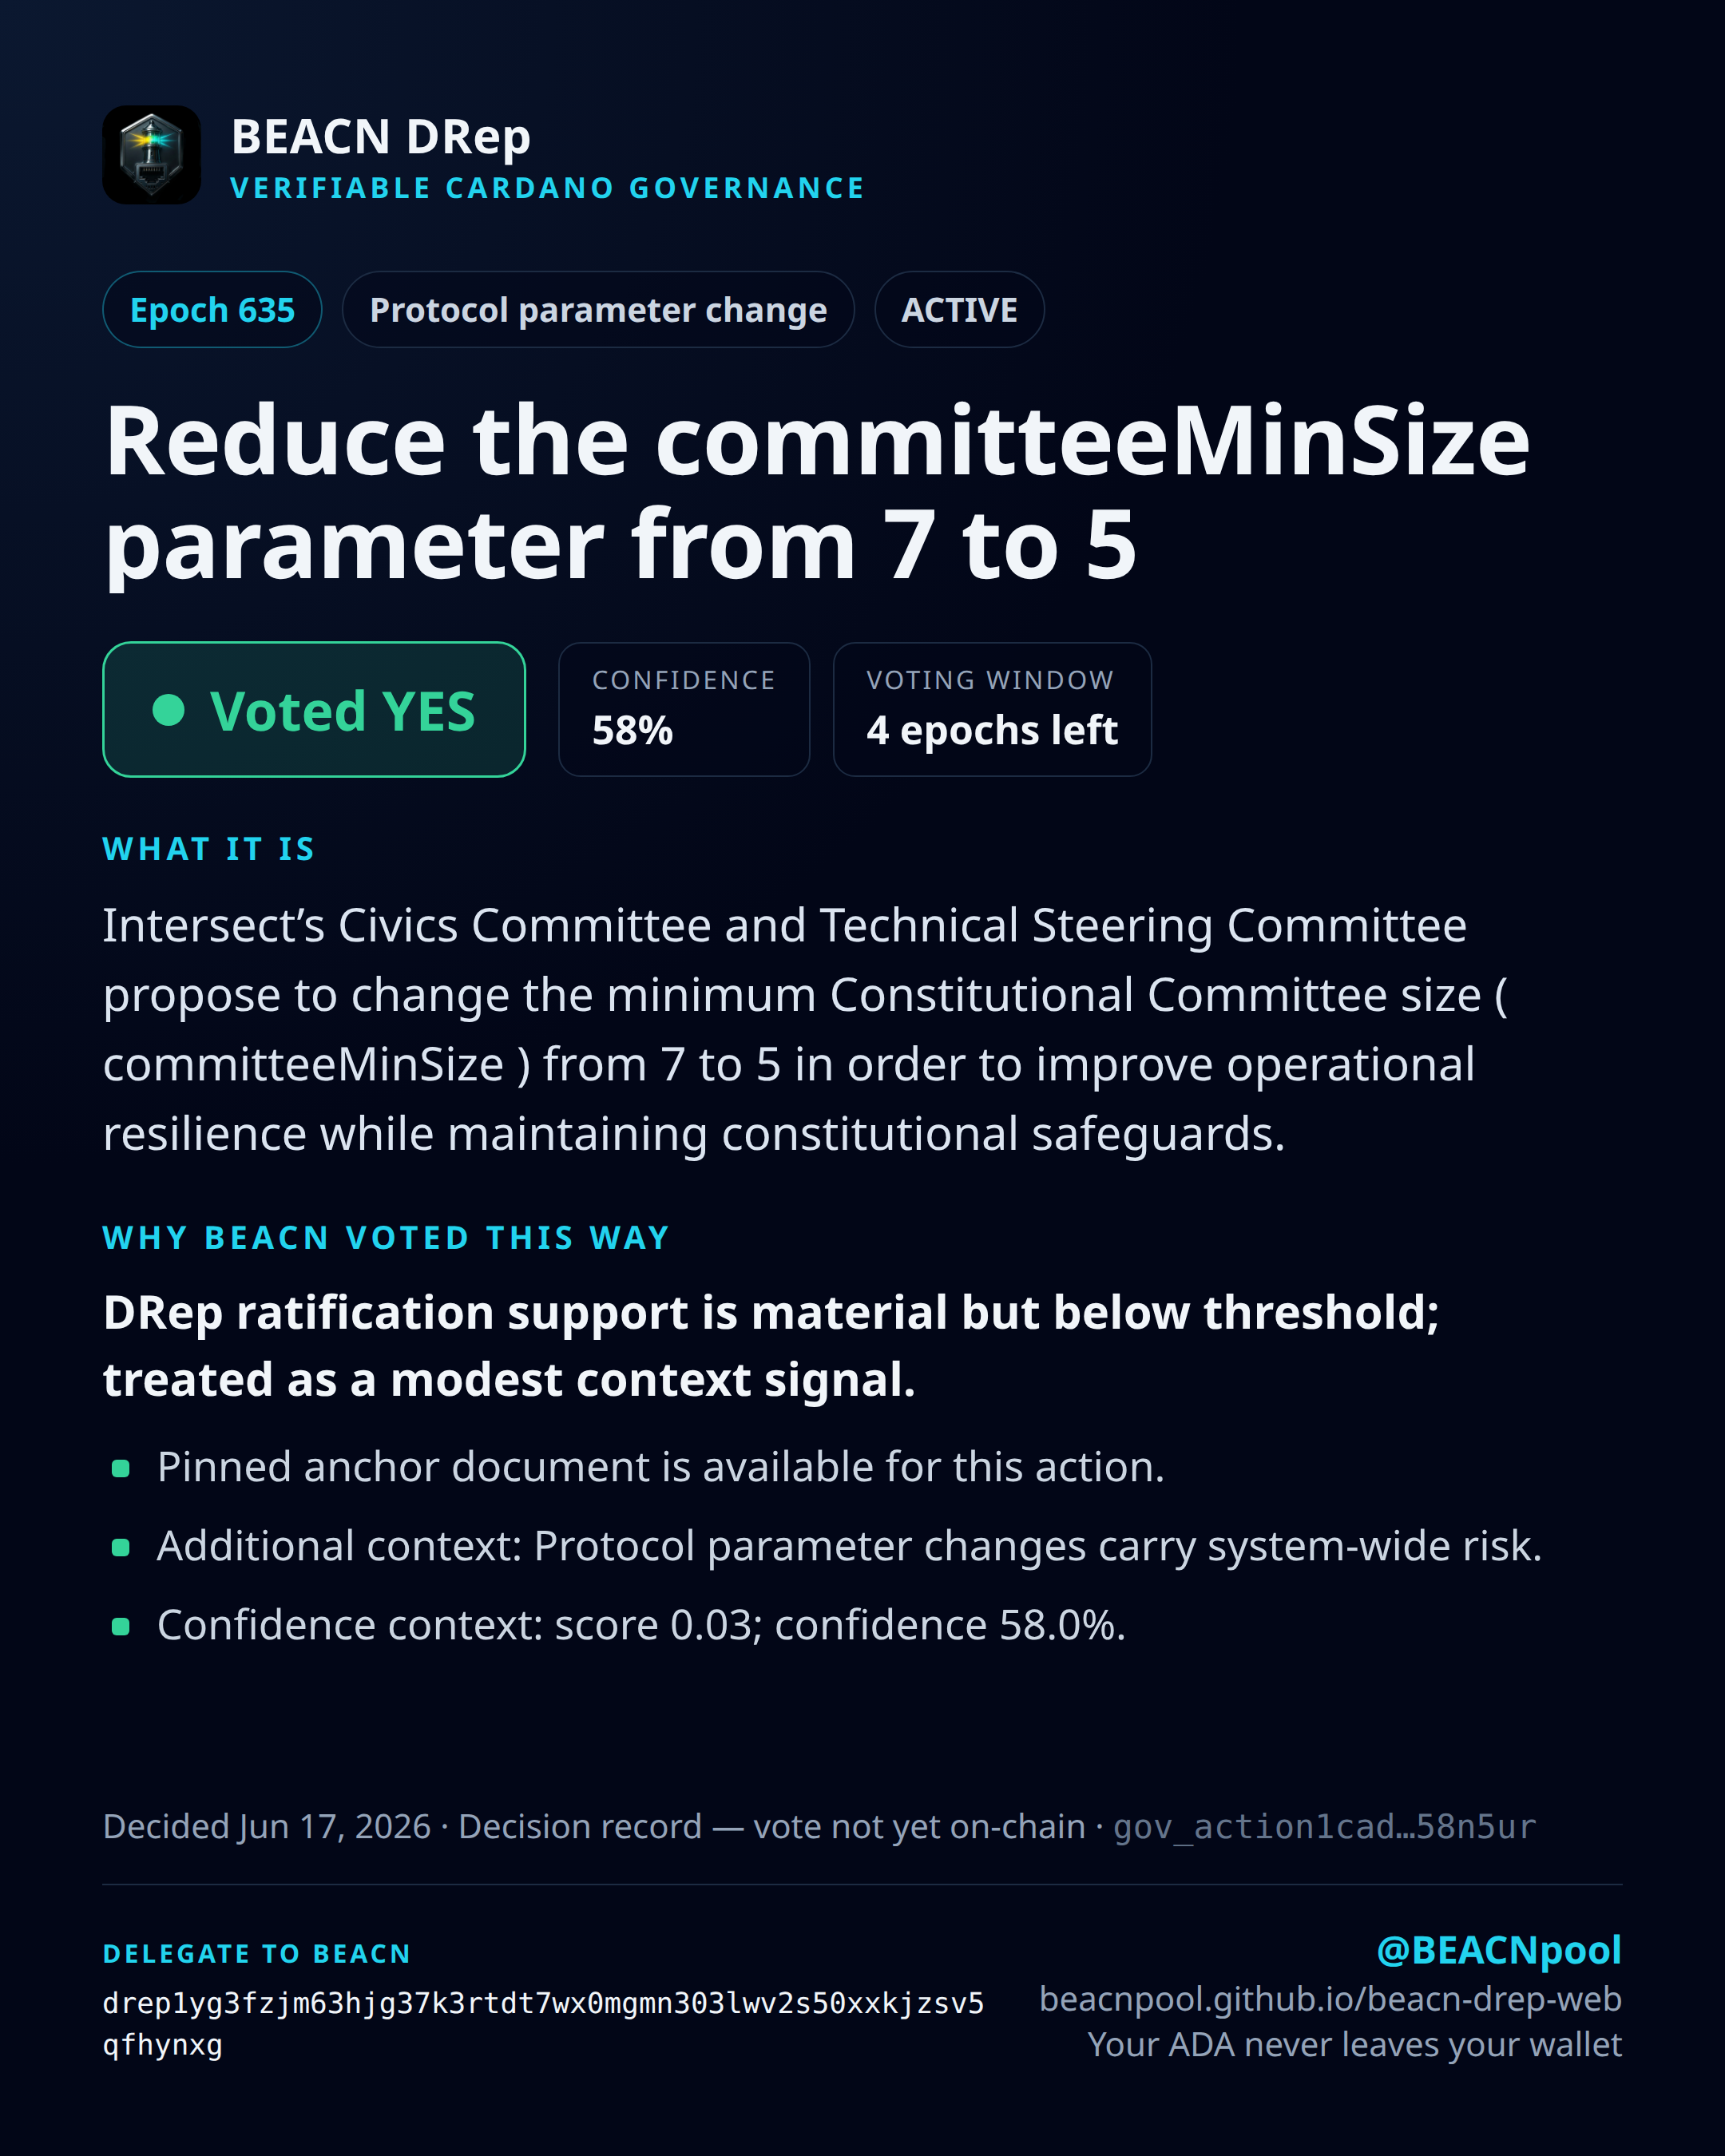
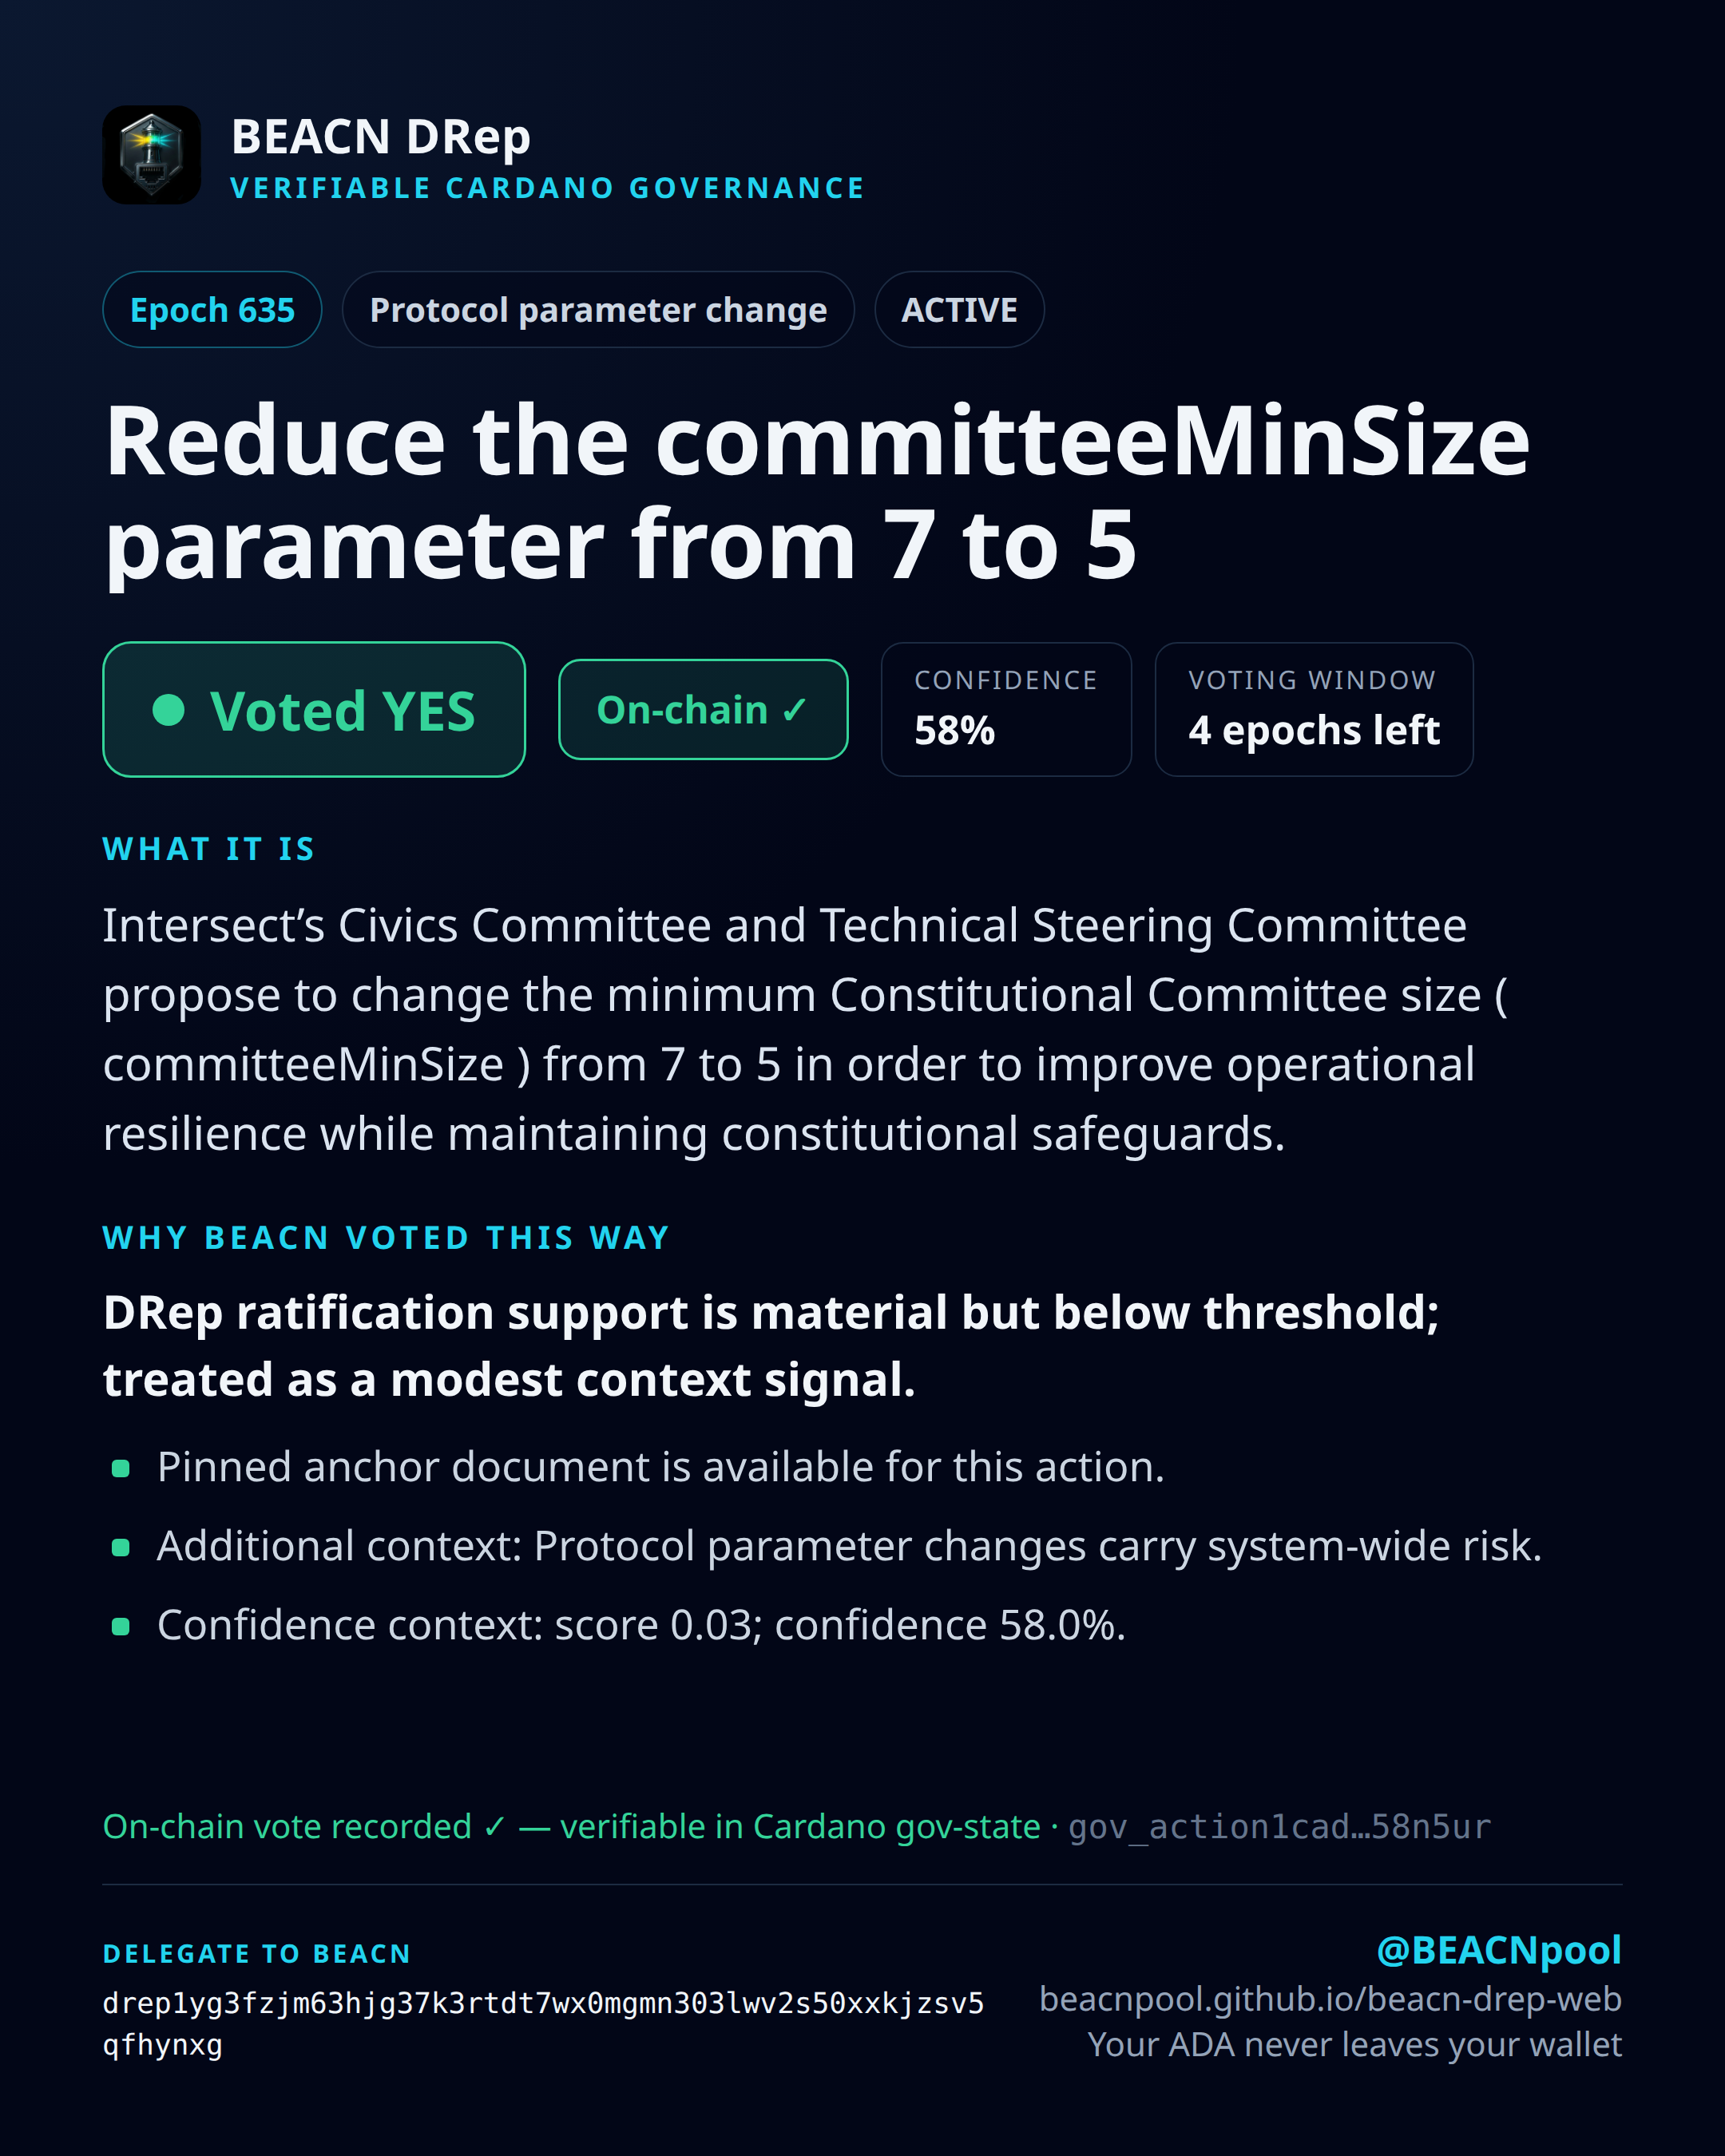
fix(web): surface on-chain vote (our_vote) as authoritative status
The site and share cards read the engine decision, so on-chain votes showed as
'not yet on-chain' — and where the engine drifted to a stale-data ABSTAIN
fallback after a directional vote was already cast, the public record
contradicted the chain.

Now status.json our_vote (read from relay gov-state) is authoritative wherever
present: deck/proposal/detail verdicts and share cards show the on-chain vote
with an 'On-chain ✓' marker; the detail page and cards flag any drift between
the chain and the current engine rationale. Verdicts unvoted on-chain still
fall back to the engine record. No mainnet writes; display only.

Changed region(s): [[0.062, 0.84, 0.8685, 0.8711], [0.3102, 0.28, 0.6514, 0.3733], [0.6824, 0.3111, 0.8375, 0.3733]]

diff --git a/app.assessment.js b/app.assessment.js
@@ -97,7 +97,8 @@ const recordFor = item => {
   return {
     ...item,
     cip129_action_id: item.action_id,
-    decision: verdictKey(item.decision || live.recommendation || live.our_vote),
+    decision: verdictKey(live.our_vote || item.decision || live.recommendation),
+    onchain: !!live.our_vote,
     transaction_hash: live.transaction_hash || null,
     expires_after_epoch: live.expires_after_epoch,
     proposed_in_epoch: live.proposed_in_epoch,
@@ -115,7 +116,8 @@ const currentRecords = () => {
       ...live,
       action_id: live.cip129_action_id,
       cip129_action_id: live.cip129_action_id,
-      decision: verdictKey(live.recommendation || live.our_vote || record.decision),
+      decision: verdictKey(live.our_vote || live.recommendation || record.decision),
+      onchain: !!live.our_vote,
       summary: summaryFor(live.cip129_action_id)
     };
   });
@@ -191,7 +193,7 @@ function proposalCard(item) {
       <h3 class="proposal-title">${esc(item.title || "Governance action")}</h3>
       <span class="type-pill">${esc(item.type || "Unknown type")}</span>
     </div>
-    <span class="verdict ${v.cls}">${esc(v.label)}</span>
+    <span class="verdict ${v.cls}">${esc(v.label)}</span>${item.onchain ? '<span class="onchain-tag">On-chain ✓</span>' : ""}
     <p class="summary-line">${esc(firstSentence(item.summary) || "Open the decision record to inspect the published rationale.")}</p>
     <span class="reason-link">Full reasoning <span aria-hidden="true">→</span></span>
     <div class="proposal-meta">
@@ -233,7 +235,7 @@ function deckCard(item, index) {
     <div class="deck-verdict ${v.cls}">
       <span class="deck-verdict-ring" aria-hidden="true"></span>
       <strong>${esc(v.label)}</strong>
-      <small>BEACN DRep verdict</small>
+      <small>${item.onchain ? "On-chain vote ✓" : "BEACN DRep verdict"}</small>
     </div>
     <h3 class="deck-title">${esc(item.title || "Governance action")}</h3>
     <p class="deck-summary">${esc(summary)}</p>
@@ -648,7 +650,11 @@ async function renderDetail(id) {
   const reproducibility = detail.reproducibility || {};
   const decision = detail.decision || {};
   const scoring = detail.scoring || {};
-  const verdict = verdictMeta(decision.vote || proof.vote || listRecord.decision);
+  const onchainVote = live.our_vote || "";
+  const onchainKey = onchainVote ? verdictKey(onchainVote) : "";
+  const engineKey = verdictKey(decision.vote || proof.vote || listRecord.decision);
+  const drift = onchainKey && onchainKey !== engineKey;
+  const verdict = verdictMeta(onchainVote || decision.vote || proof.vote || listRecord.decision);
   const statement = summaryFor(id) || rationale.summary || "No plain-language statement has been published for this action.";
   const amount = extractedAmount(detail);
   const snapshot = localPath(evidence.download_path || listRecord.proposal_path);
@@ -663,7 +669,7 @@ async function renderDetail(id) {
     <article class="card detail-hero">
       <div class="detail-meta"><span class="status-pill">${esc(detail.status || listRecord.status || "recorded")}</span><span class="type-pill">${esc(detail.type || listRecord.type || "Unknown type")}</span></div>
       <h1>${esc(detail.title || listRecord.title || "Governance action")}</h1>
-      <span class="verdict ${verdict.cls}">${esc(verdict.label)}</span>
+      <span class="verdict ${verdict.cls}">${esc(verdict.label)}</span>${onchainVote ? '<span class="onchain-tag">On-chain ✓</span>' : ""}
       <div class="detail-links"><a href="${cardanoscan.action(id)}" target="_blank" rel="noopener">Action on Cardanoscan ↗</a>${decision.transaction_hash ? `<a href="${cardanoscan.tx(decision.transaction_hash)}" target="_blank" rel="noopener">Vote transaction ↗</a>` : ""}</div>
     </article>
 
@@ -686,7 +692,9 @@ async function renderDetail(id) {
 
     <article class="card detail-section">
       <h2><span>02</span>BEACN's verdict</h2>
+      ${onchainVote ? `<p class="onchain-note"><strong>On-chain vote: ${esc(verdictMeta(onchainKey).label)} ✓</strong> — recorded in Cardano governance state, authoritative.</p>` : ""}
       <div class="callout">${esc(statement)}</div>
+      ${drift ? `<p class="timestamp drift-note" style="margin-top:10px">Note: the on-chain vote (${esc(verdictMeta(onchainKey).label)}) differs from the current engine rationale (${esc(verdictMeta(engineKey).label)}), a conservative fallback generated on stale data. The chain is authoritative; the rationale is being reconciled.</p>` : ""}
       ${state.statements.get(id)?.model ? `<p class="timestamp" style="margin-top:10px">Plain-language layer: ${esc(state.statements.get(id).model)}. The deterministic record below is binding.</p>` : ""}
     </article>
 
@@ -710,7 +718,8 @@ async function renderDetail(id) {
       <h2><span>${assessment?.sections?.length ? "05" : "04"}</span>Proof and reproducibility</h2>
       <p class="subtitle">These receipts bind the public inputs and rule versions to the published result.</p>
       <div class="proof-list">
-        ${proofRow("Vote", decision.vote || proof.vote)}
+        ${proofRow("On-chain vote", onchainVote || "not yet on-chain")}
+        ${proofRow("Engine record", decision.vote || proof.vote)}
         ${proofRow("Submitted", decision.submitted_at)}
         ${proofRow("Transaction", decision.transaction_hash, decision.transaction_hash ? cardanoscan.tx(decision.transaction_hash) : "")}
         ${proofRow("Input hash", proof.input_hash)}

diff --git a/styles.assessment.css b/styles.assessment.css
@@ -262,6 +262,9 @@ h3 { margin-bottom: 7px; font-size: 1rem; }
 .verdict { display: inline-flex; align-items: center; gap: 7px; margin-top: 12px; font-size: .85rem; font-weight: 800; }
 .verdict::before { width: 8px; height: 8px; border-radius: 50%; background: currentColor; box-shadow: 0 0 9px currentColor; content: ""; }
 .v-yes { color: var(--green); } .v-no { color: var(--red); } .v-abstain { color: var(--slate); } .v-info { color: var(--amber); }
+.onchain-tag { display: inline-flex; align-items: center; margin-top: 12px; margin-left: 8px; padding: 3px 9px; border: 1px solid var(--green); border-radius: 999px; background: rgba(52, 211, 153, .12); color: var(--green); font-size: .68rem; font-weight: 800; letter-spacing: .03em; }
+.onchain-note { margin: 4px 0 12px; color: var(--green); font-size: .84rem; line-height: 1.5; }
+.drift-note { color: var(--amber) !important; }
 .summary-line { margin: 11px 0 0; color: #cbd5e1; font-size: .86rem; line-height: 1.55; }
 .reason-link { display: inline-flex; align-items: center; gap: 5px; margin-top: 11px; color: var(--cyan); font-size: .8rem; font-weight: 750; }
 .proposal-meta { display: flex; flex-wrap: wrap; gap: 5px 12px; margin-top: 12px; color: var(--dim); font-family: var(--mono); font-size: .68rem; }

diff --git a/scripts/build_share_card.py b/scripts/build_share_card.py
@@ -49,6 +49,9 @@ VERDICTS = {
     "PENDING": ("Pending", "#a8b2c1", "rgba(168,178,193,.14)"),
 }
 
+SHORT = {"YES": "Yes", "NO": "No", "ABSTAIN": "Abstain",
+         "NEEDS_MORE_INFO": "Needs more info", "PENDING": "Pending"}
+
 TYPE_LABELS = {
     "TreasuryWithdrawals": "Treasury withdrawal",
     "ParameterChange": "Protocol parameter change",
@@ -68,7 +71,7 @@ def verdict_key(value):
         return "ABSTAIN"
     if "YES" in v:
         return "YES"
-    if v == "NO" or v.startswith("NO_") or "VOTE_NO" in v:
+    if "NO" in v:  # VOTENO, NO, NO_CONFIDENCE...
         return "NO"
     return v if v in VERDICTS else "PENDING"
 
@@ -164,15 +167,23 @@ def build_model(action_id, status, statements):
     live = next((a for a in (status or {}).get("actions", [])
                  if a.get("cip129_action_id") == action_id), {})
 
-    vkey = verdict_key(decision.get("vote") or proof.get("vote")
-                       or live.get("recommendation") or live.get("our_vote"))
+    # On-chain truth (status.json our_vote, read from gov-state) is authoritative
+    # wherever it exists; the engine recommendation is only a fallback for actions
+    # not yet voted. Drift = the chain vote differs from the current engine output.
+    engine_vkey = verdict_key(decision.get("vote") or proof.get("vote") or live.get("recommendation"))
+    onchain_raw = live.get("our_vote")
+    onchain = bool(onchain_raw)
+    vkey = verdict_key(onchain_raw) if onchain else engine_vkey
+    drift = onchain and vkey != engine_vkey
     vlabel, vcolor, vbg = VERDICTS[vkey]
 
-    # What it is: prefer the anchor abstract, then motivation, then statement.
-    what = clean_md(body.get("abstract") or body.get("motivation"), 300)
+    # What it is: describe the PROPOSAL from its own anchor, never BEACN's stance
+    # (a verdict-flavored fallback would contradict the verdict badge on drift).
+    what = clean_md(body.get("abstract") or body.get("motivation") or body.get("rationale"), 300)
     if not what:
-        st = statements.get(action_id, {})
-        what = clean_md(st.get("statement") or rationale.get("summary"), 300)
+        tl = TYPE_LABELS.get(detail.get("type"), detail.get("type") or "governance")
+        what = (f"An on-chain {tl.lower()} governance action. The full proposal text was not "
+                f"included in the published anchor snapshot — open the record to verify the source.")
 
     # Why: a headline reason plus up to three concrete points.
     headline = clean_md(rationale.get("summary_raw"), 180)
@@ -193,6 +204,16 @@ def build_model(action_id, status, statements):
         why_label = "Why BEACN voted this way"
     points = [p for p in points if p][:3]
 
+    # Drift: the on-chain vote differs from the current engine rationale. Trust the
+    # chain for the verdict, but say plainly that the published rationale is being
+    # reconciled rather than show abstain-flavoured reasons under a NO badge.
+    if drift:
+        why_label = "Note on this vote"
+        headline = (f"BEACN's vote is recorded on-chain as {SHORT[vkey]}. The published "
+                    f"deterministic rationale currently reads {SHORT[engine_vkey]} — a conservative "
+                    f"fallback generated on stale data — and is being reconciled.")
+        points = []
+
     epoch = live.get("proposed_in_epoch") or current_epoch()
     short_id = action_id if len(action_id) <= 26 else f"{action_id[:14]}…{action_id[-6:]}"
     type_label = TYPE_LABELS.get(detail.get("type"), detail.get("type") or "Governance action")
@@ -205,23 +226,25 @@ def build_model(action_id, status, statements):
     stats = []
     if amount:
         stats.append(("Requested", f"{amount} ADA"))
-    if conf_pct:
+    if conf_pct and not drift:
         stats.append(("Confidence", conf_pct))
     if window:
         stats.append(("Voting window", window))
 
-    tx = decision.get("transaction_hash")
-    decided = fmt_date(decision.get("published_at") or decision.get("submitted_at"))
-    proof_line = ("On-chain vote recorded ✓" if tx else "Decision record — vote not yet on-chain")
-    if decided:
-        proof_line = f"Decided {decided} · {proof_line}"
+    if onchain:
+        proof_line = "On-chain vote recorded ✓ — verifiable in Cardano gov-state"
+    else:
+        proof_line = "Decision record — vote not yet on-chain"
+        decided = fmt_date(decision.get("published_at") or decision.get("submitted_at"))
+        if decided:
+            proof_line = f"Decided {decided} · {proof_line}"
 
     return {
         "title": detail.get("title") or "Governance action",
         "type_label": type_label,
         "epoch": epoch,
         "status": (detail.get("status") or live.get("status") or "recorded").upper(),
-        "vlabel": vlabel, "vcolor": vcolor, "vbg": vbg,
+        "vlabel": vlabel, "vcolor": vcolor, "vbg": vbg, "onchain": onchain,
         "what": what or "Proposal source admitted and analyzed; see the verified record.",
         "headline": headline,
         "points": points,
@@ -258,6 +281,8 @@ h1{{font-size:60px;line-height:1.08;font-weight:800;letter-spacing:-.5px;margin-
   padding:18px 30px;border-radius:18px;background:{m['vbg']};border:1.5px solid {m['vcolor']}}}
 .verdict i{{width:20px;height:20px;border-radius:50%;background:{m['vcolor']}}}
 .verdict b{{font-size:34px;font-weight:800;color:{m['vcolor']}}}
+.onchain-pill{{display:inline-flex;align-items:center;gap:10px;padding:14px 22px;border-radius:14px;
+  background:rgba(52,211,153,.12);border:1.5px solid #34d399;color:#34d399;font-size:24px;font-weight:800}}
 .stats{{display:flex;gap:14px;flex-wrap:wrap}}
 .stat{{padding:12px 20px;border:1px solid var(--line);border-radius:14px;background:rgba(2,6,23,.5)}}
 .stat span{{display:block;font-size:16px;letter-spacing:.1em;text-transform:uppercase;color:var(--muted)}}
@@ -272,7 +297,7 @@ li{{position:relative;padding-left:34px;font-size:26px;line-height:1.4;color:#cb
   display:-webkit-box;-webkit-line-clamp:2;-webkit-box-orient:vertical;overflow:hidden}}
 li::before{{content:"";position:absolute;left:6px;top:14px;width:11px;height:11px;border-radius:3px;background:{m['vcolor']}}}
 .spacer{{flex:1}}
-.proofline{{font-size:21px;color:var(--muted);margin-bottom:22px}}
+.proofline{{font-size:21px;color:{'#34d399' if m['onchain'] else 'var(--muted)'};margin-bottom:22px}}
 .proofline .id{{font-family:ui-monospace,Menlo,Consolas,monospace;color:#64748b}}
 .foot{{border-top:1px solid var(--line);padding-top:24px;display:flex;justify-content:space-between;align-items:flex-end;gap:24px}}
 .foot .l{{font-size:21px;color:var(--muted);line-height:1.45}}
@@ -285,6 +310,7 @@ li::before{{content:"";position:absolute;left:6px;top:14px;width:11px;height:11p
   <div class="tags"><span class="tag epoch">Epoch {e(str(m['epoch']))}</span><span class="tag">{e(m['type_label'])}</span><span class="tag">{e(m['status'])}</span></div>
   <h1>{e(m['title'])}</h1>
   <div class="vrow"><div class="verdict"><i></i><b>{e(m['vlabel'])}</b></div>
+    {'<div class="onchain-pill">On-chain ✓</div>' if m['onchain'] else ''}
     <div class="stats">{''.join(f'<div class="stat"><span>{e(lab)}</span><b>{e(val)}</b></div>' for lab,val in m['stats'])}</div>
   </div>
   <div class="block"><div class="label">What it is</div><div class="what">{e(m['what'])}</div></div>